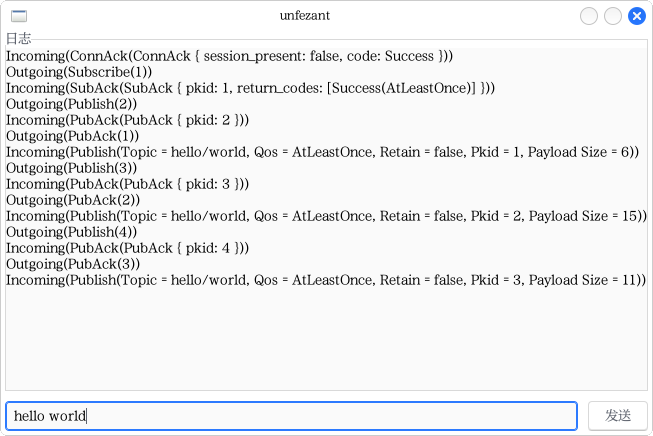
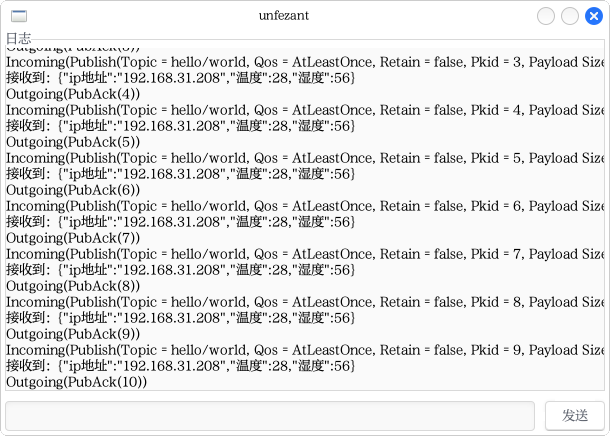
滑动

Changed region(s): [[0.0, 0.0596, 0.9967, 1.0], [0.8721, 0.0, 0.9967, 0.0596], [0.4049, 0.0298, 0.4984, 0.0596]]

diff --git a/src/main.rs b/src/main.rs
@@ -9,8 +9,8 @@ use gtk::{
 		ApplicationExt, ApplicationExtManual, BoxExt, ButtonExt, ContainerExt, EntryExt,
 		TextBufferExt, WidgetExt,
 	},
-	Application, ApplicationWindow, Box as GtkBox, Button, Entry, Frame, Orientation, TextBuffer,
-	TextView,
+	Application, ApplicationWindow, Box as GtkBox, Button, Entry, Frame, Orientation,
+	ScrolledWindow, TextBuffer, TextView,
 };
 
 use std::thread;
@@ -32,8 +32,8 @@ struct Widget {
 fn build_ui(app: &Application, tx: Sender<Event>) -> Widget {
 	let window = ApplicationWindow::builder()
 		.application(app)
-		.width_request(600)
-		.height_request(400)
+		.default_width(600)
+		.default_height(400)
 		.build();
 	let layout = GtkBox::builder()
 		.orientation(Orientation::Vertical)
@@ -41,12 +41,14 @@ fn build_ui(app: &Application, tx: Sender<Event>) -> Widget {
 		.build();
 
 	let view_frame = Frame::builder().label("日志").build();
+	let scroll_window = ScrolledWindow::builder().build();
 	let text_buf = TextBuffer::builder().build();
 	let text_view = TextView::builder()
 		.buffer(&text_buf)
 		.editable(false)
 		.build();
-	view_frame.add(&text_view);
+	scroll_window.add(&text_view);
+	view_frame.add(&scroll_window);
 	layout.pack_start(&view_frame, true, true, 0);
 
 	let send_layout = GtkBox::builder().spacing(10).build();
@@ -108,7 +110,7 @@ fn main() {
 								if let Some(json) =
 									serde_json::from_slice::<serde_json::Value>(&pb.payload).ok()
 								{
-									let msg = "接收到：".to_string() + &json.to_string();
+									let msg = "接收到：".to_string() + &json.to_string() + "\n";
 									tx.try_send(Event::SendMsg(msg)).unwrap();
 								}
 							}
